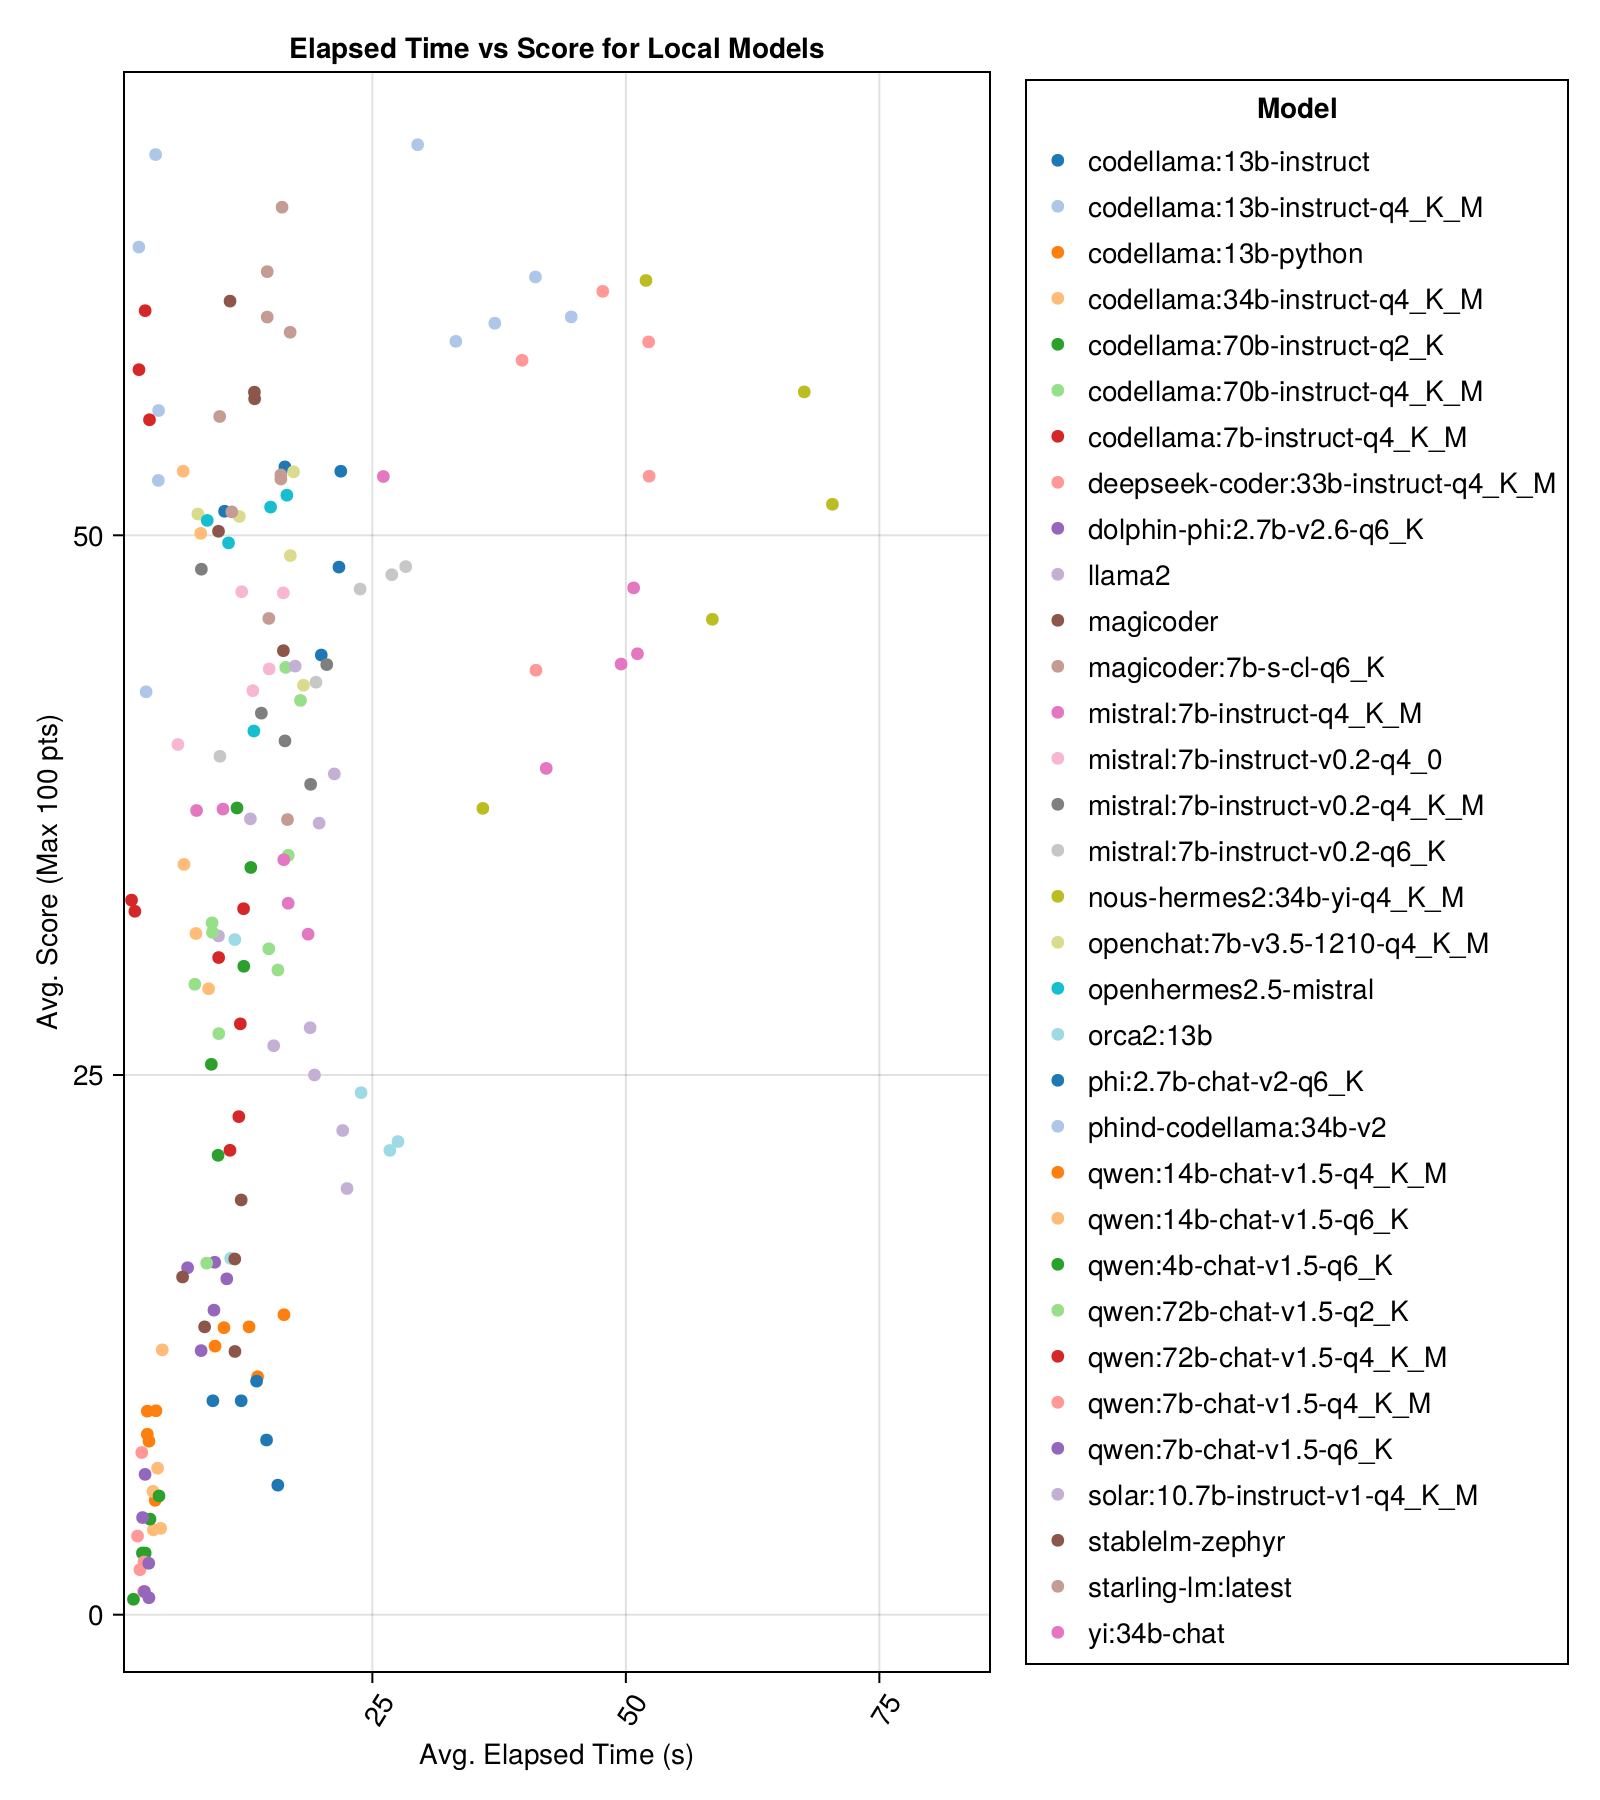
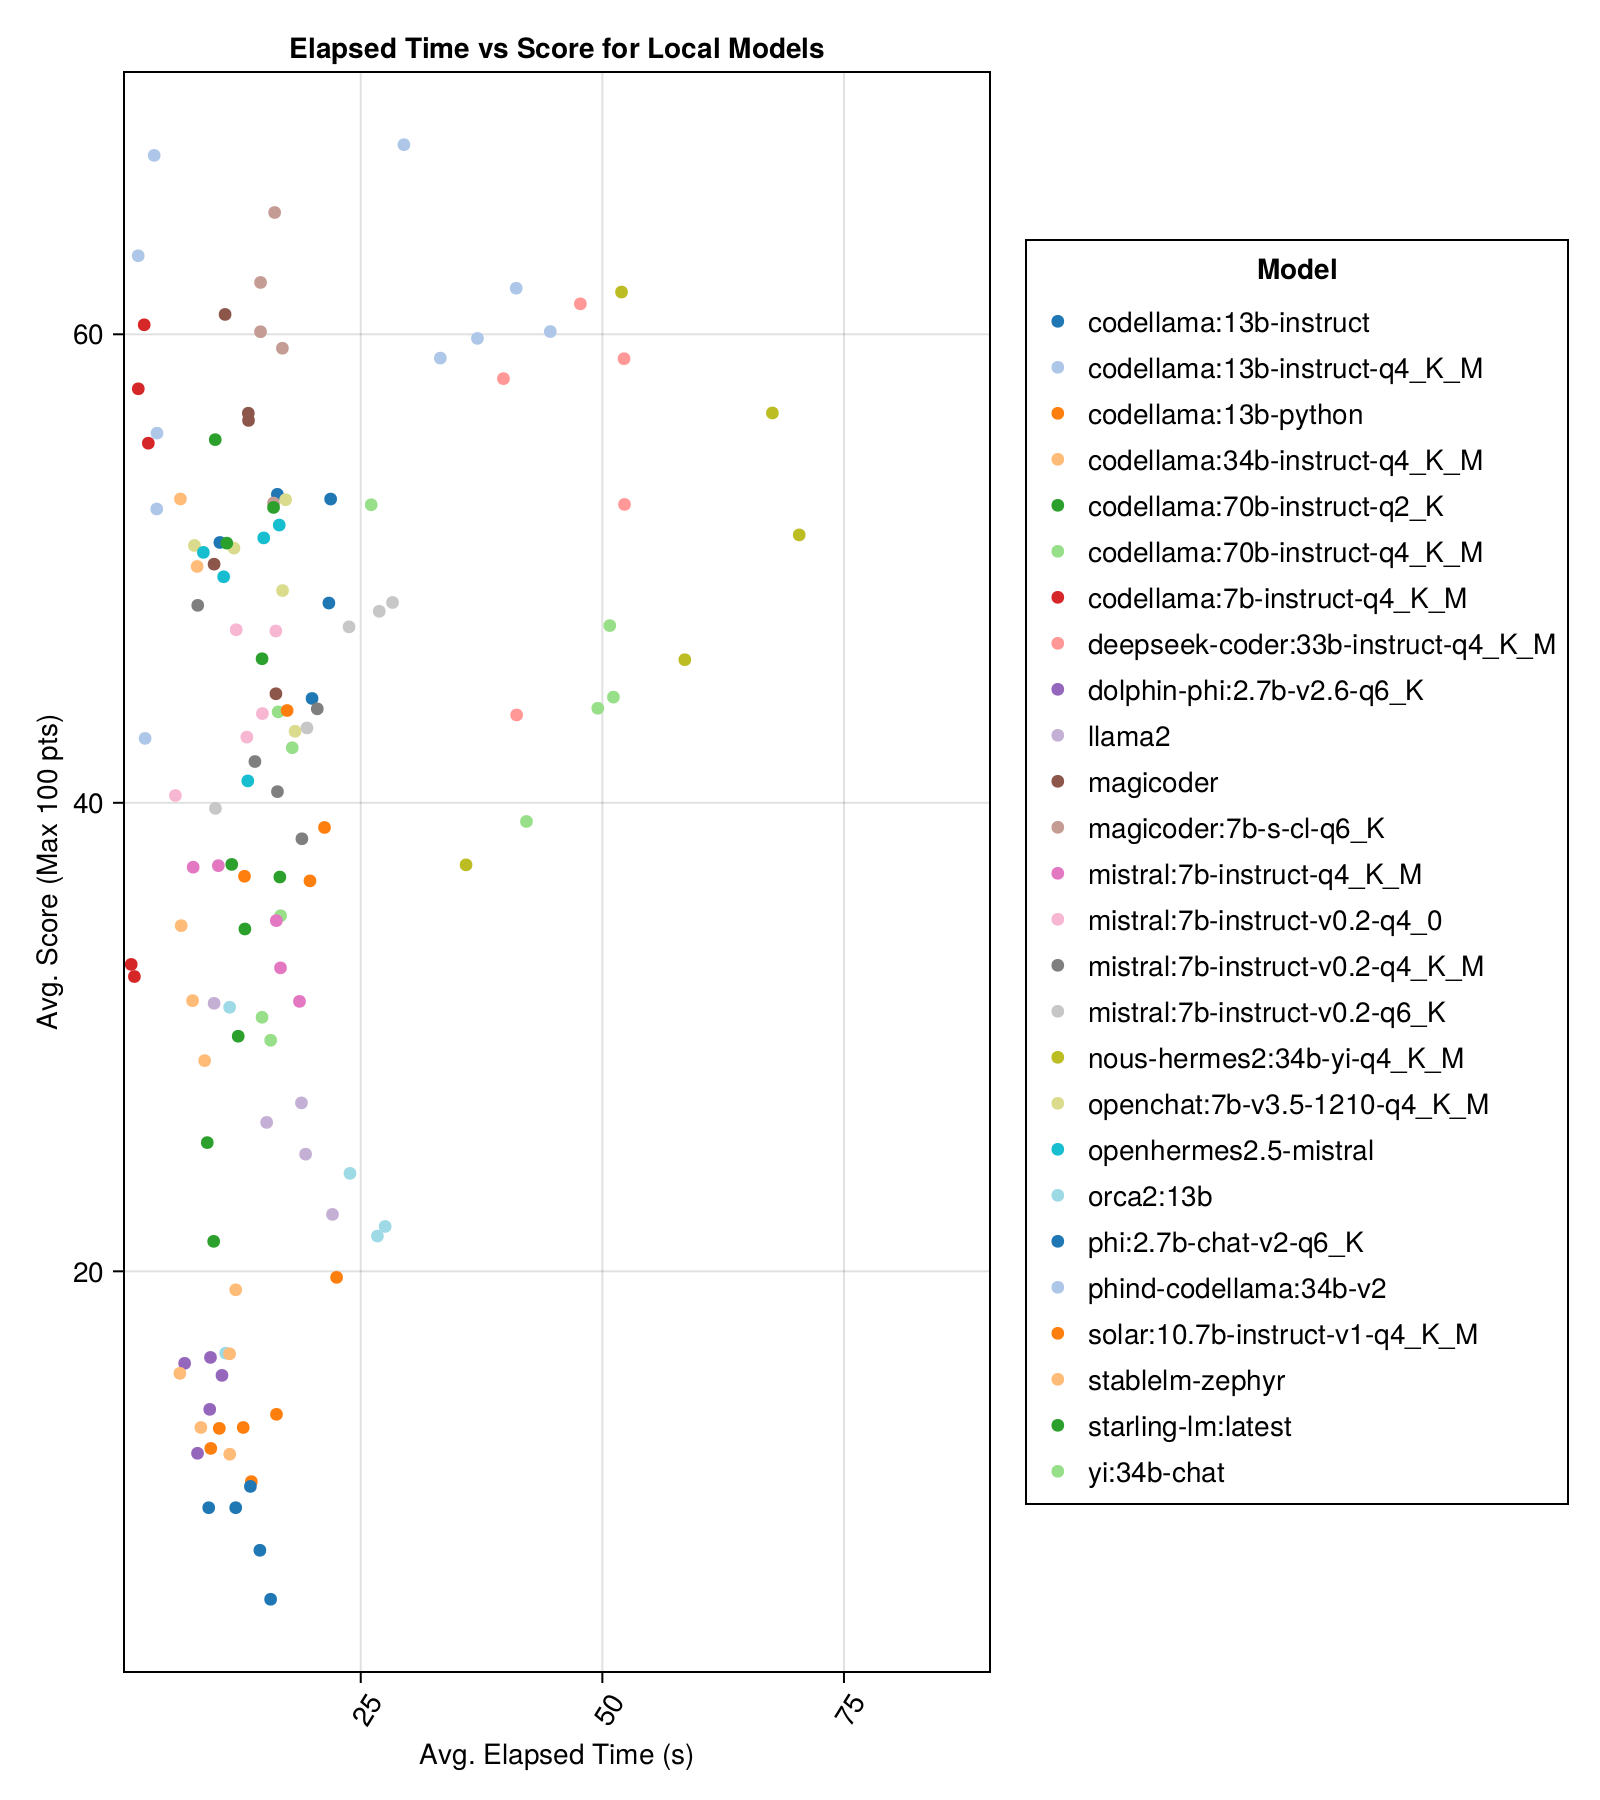
Remove QWEN samples from benchmark (#7)

diff --git a/README.md b/README.md
@@ -109,20 +109,12 @@ The best-performing models are in general around 33/34Bn parameters - Phind Code
 |     solar:10.7b-instruct-v1-q4_K_M |    18.8 |           17.7 |  35.2 |         50.0 |                31.1 |            107.0 |             10.0 |
 |         mistral:7b-instruct-q4_K_M |    13.9 |           13.0 |  34.8 |         50.0 |                26.5 |             80.0 |              0.0 |
 |        codellama:70b-instruct-q2_K |    11.2 |            9.4 |  29.8 |          0.0 |                37.7 |            198.0 |             29.0 |
-|            qwen:72b-chat-v1.5-q2_K |     8.9 |            8.4 |  27.2 |          0.0 |                37.6 |            211.0 |             45.0 |
-|          qwen:72b-chat-v1.5-q4_K_M |    11.4 |           10.4 |  27.0 |          0.0 |                40.4 |            231.0 |             52.0 |
 |                             llama2 |    17.1 |           16.3 |  26.5 |         25.0 |                26.5 |            131.0 |              0.0 |
 |                          orca2:13b |    20.1 |           18.3 |  23.1 |          0.0 |                30.6 |            166.0 |             11.0 |
 |                    stablelm-zephyr |     9.9 |            7.7 |  15.4 |          0.0 |                23.5 |            192.0 |              1.0 |
 |         dolphin-phi:2.7b-v2.6-q6_K |     8.9 |            8.4 |  14.9 |          0.0 |                22.9 |            188.0 |              0.0 |
 |               codellama:13b-python |    12.5 |           10.7 |  12.8 |          0.0 |                22.1 |            155.0 |              0.0 |
 |              phi:2.7b-chat-v2-q6_K |    13.0 |           11.6 |   8.9 |          0.0 |                19.4 |            222.0 |              0.0 |
-|          qwen:14b-chat-v1.5-q4_K_M |     3.2 |            2.9 |   8.1 |          0.0 |                21.4 |            299.0 |              6.0 |
-|            qwen:14b-chat-v1.5-q6_K |     3.8 |            3.5 |   6.5 |          0.0 |                19.9 |            310.0 |              5.0 |
-|           qwen:7b-chat-v1.5-q4_K_M |     2.2 |            2.0 |   3.4 |          0.0 |                14.7 |            329.0 |              1.0 |
-|             qwen:4b-chat-v1.5-q6_K |     2.7 |            1.5 |   3.3 |          0.0 |                12.4 |            327.0 |              0.0 |
-|             qwen:7b-chat-v1.5-q6_K |     2.7 |            2.5 |   3.0 |          0.0 |                12.3 |            326.0 |              0.0 |
-
 
 Same information, but as a bar chart:
 
@@ -130,6 +122,9 @@ Same information, but as a bar chart:
 
 And with a separate bar for each prompt template:
 ![Model-Prompt-Scores-for-local-models](assets/model-prompt-comparison-local.png)
+
+> [!NOTE]
+> Qwen-1.5 models have been removed from the overviews as the underlying model on Ollama repository (and HF) is not correct and has very low performance.
 
 > [!NOTE]
 > I have noticed that some evals in Ollama/llama.cpp now score slightly higher now than in Dec-23, so it's on a roadmap to re-run the above evals.
